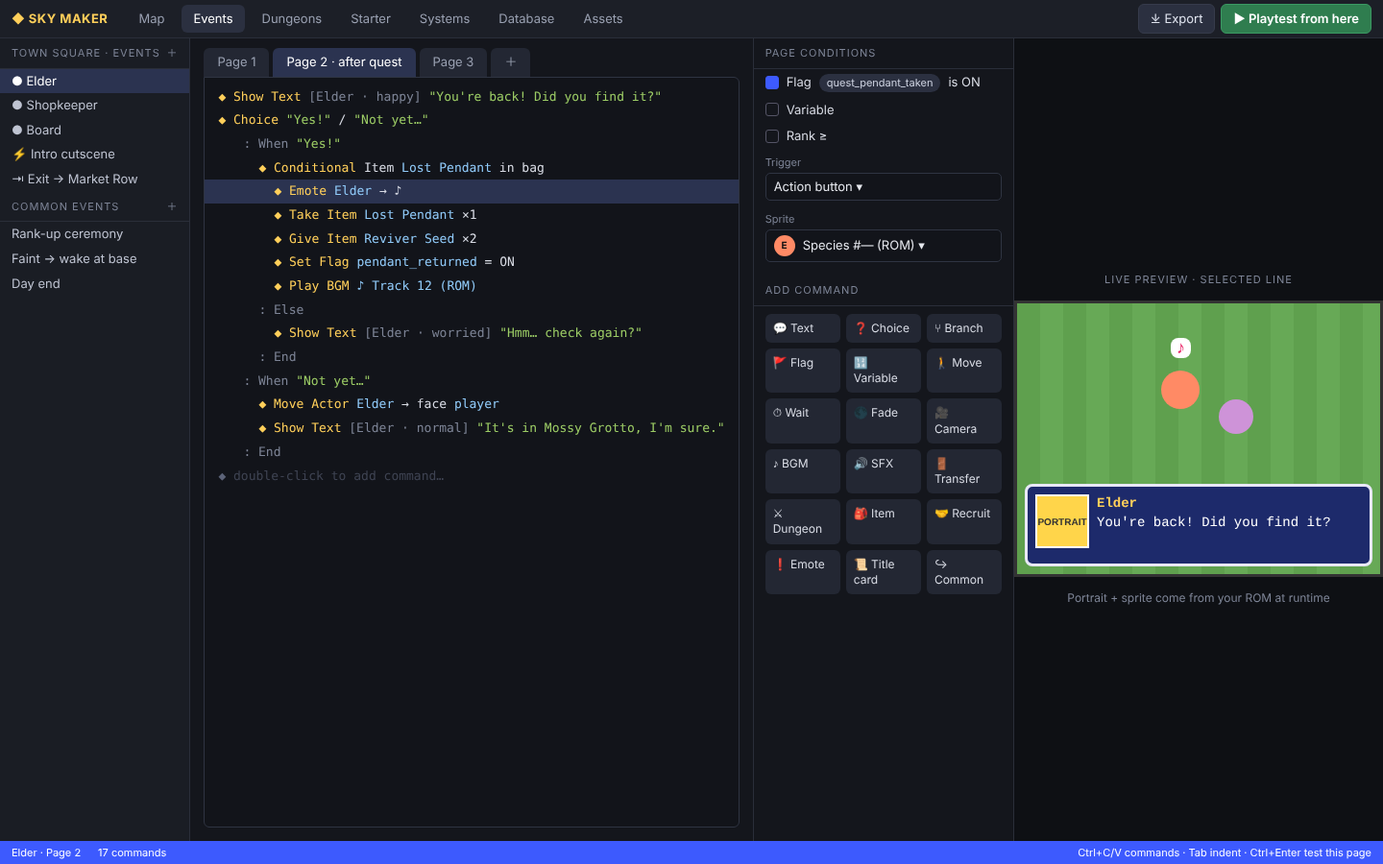
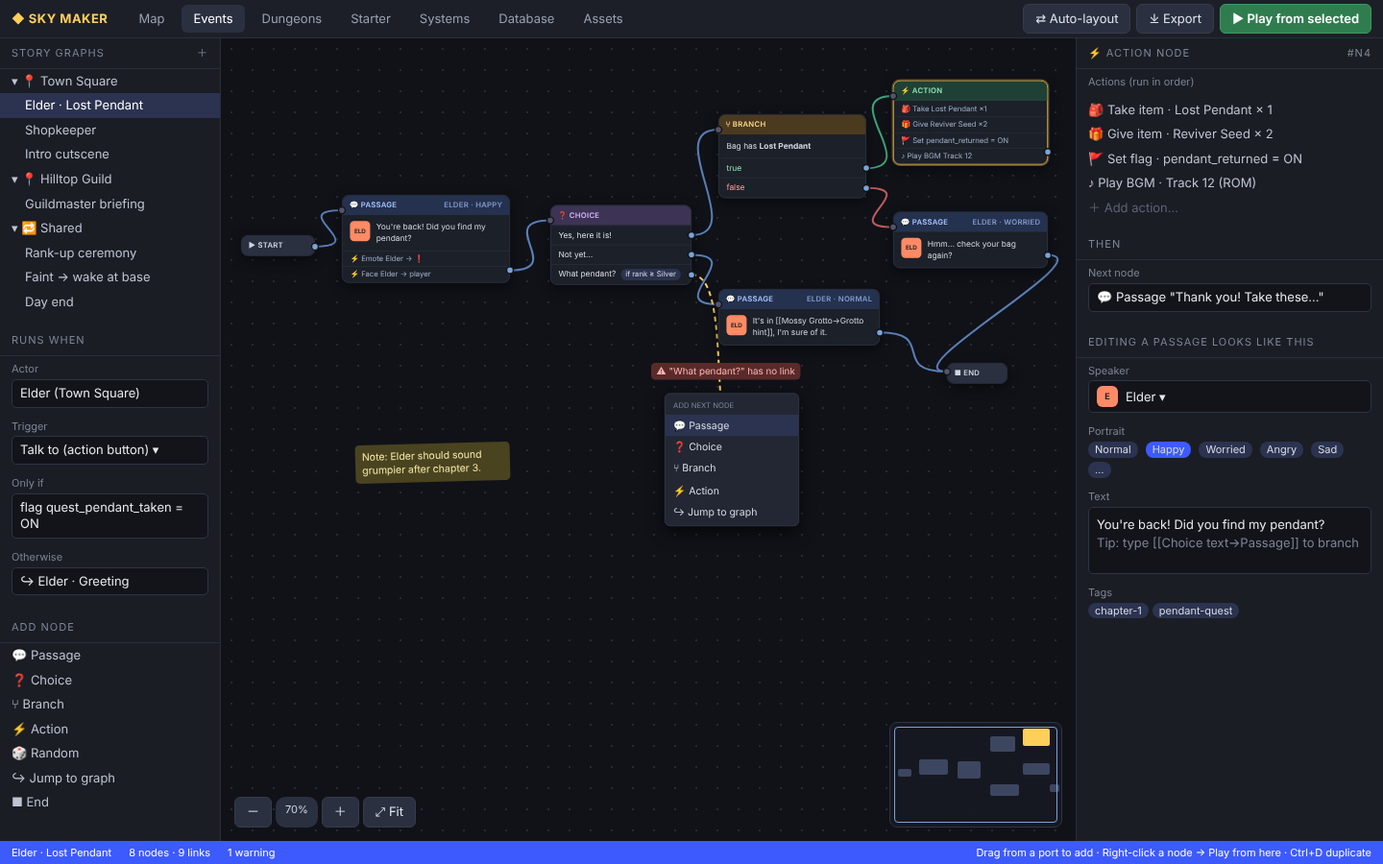
Spec + mockup: Twine-style node graphs for dialogue and events
Claude-Session: https://claude.ai/code/session_01SJfvhBuF88Dvv6NENy6wQk

diff --git a/docs/mockups/2-events.html b/docs/mockups/2-events.html
@@ -1,74 +1,131 @@
 <html><head><link rel="stylesheet" href="base.css"><style>
-.wrap{flex:1;display:flex;gap:0;min-height:0}
-.pages{display:flex;gap:4px;padding:10px 14px 0}
-.pg{padding:6px 14px;border-radius:6px 6px 0 0;background:#232733;color:#9aa1b2}
-.pg.on{background:#2b3350;color:#fff}
-.ed{flex:1;display:flex;flex-direction:column;border-right:1px solid #2a2e39}
-.cmds{flex:1;background:#12141a;margin:0 14px 14px;border:1px solid #2f3442;border-radius:0 6px 6px 6px;padding:8px 0;font:13px/1.9 "JetBrains Mono",Consolas,monospace}
-.cmd{padding:0 14px;white-space:nowrap}
-.cmd.sel{background:#2b3350}
-.k{color:#ffcf5a}.s{color:#9ccc65}.v{color:#90caf9}.m{color:#7d8496}
-.add{color:#5c6378}
-.side{width:300px;display:flex;flex-direction:column}
-.cond{display:flex;align-items:center;gap:8px;padding:5px 12px}
-.box{width:14px;height:14px;border:1px solid #556;border-radius:3px}.box.on{background:#3d5afe;border-color:#3d5afe}
-.pal2{display:grid;grid-template-columns:repeat(3,1fr);gap:6px;padding:8px 12px}
-.pal2 div{background:#232733;border-radius:6px;padding:7px 8px;font-size:12px}
-.preview{width:420px;background:#0e1014;display:flex;flex-direction:column;align-items:center;justify-content:center;gap:14px;border-left:1px solid #2a2e39}
-.ds{width:384px;height:288px;background:#5fa04e;border:3px solid #333;position:relative;image-rendering:pixelated}
-.dbox{position:absolute;left:8px;right:8px;bottom:8px;height:86px;background:#1d2a6b;border:3px solid #e8e8f8;border-radius:8px;color:#fff;font:14px/1.4 "Courier New",monospace;padding:8px 10px 8px 72px}
-.port{position:absolute;left:8px;top:8px;width:56px;height:56px;background:#ffd54a;border:2px solid #fff;display:flex;align-items:center;justify-content:center;color:#333;font:700 10px sans-serif}
+.canvas{flex:1;position:relative;overflow:hidden;background:#101218;background-image:radial-gradient(#252a36 1px,transparent 1px);background-size:22px 22px}
+svg.wires{position:absolute;inset:0;width:100%;height:100%;pointer-events:none;z-index:0}.world .node,.world .warn,.world .menu,.world .note2{z-index:1}
+.node{position:absolute;width:250px;background:#1c2029;border:1px solid #333a4a;border-radius:10px;box-shadow:0 6px 18px #0007;font-size:12px}
+.node.sel{border-color:#ffcf5a;box-shadow:0 0 0 2px #ffcf5a55,0 6px 18px #0007}
+.nh{display:flex;align-items:center;gap:7px;padding:7px 10px;border-radius:10px 10px 0 0;font-weight:600;font-size:11px;letter-spacing:.4px;text-transform:uppercase}
+.nb{padding:9px 11px;color:#d0d4df;line-height:1.45}
+.pp{width:30px;height:30px;border-radius:6px;flex:none;display:flex;align-items:center;justify-content:center;font-size:9px;color:#222;font-weight:700}
+.sp2{display:flex;gap:9px;align-items:flex-start}
+.act{display:flex;gap:6px;align-items:center;padding:4px 11px;color:#9fb0c8;font-size:11px;border-top:1px solid #2a2f3c}
+.opt{position:relative;padding:6px 11px;border-top:1px solid #2a2f3c;display:flex;justify-content:space-between}
+.port{position:absolute;right:-7px;top:50%;margin-top:-6px;width:12px;height:12px;border-radius:50%;background:#7aa3d6;border:2px solid #101218}
+.portl{position:absolute;left:-7px;top:16px;width:12px;height:12px;border-radius:50%;background:#556;border:2px solid #101218}
+.out{position:absolute;right:-7px;bottom:12px;width:12px;height:12px;border-radius:50%;background:#7aa3d6;border:2px solid #101218}
+.passage .nh{background:#24324f;color:#a9c3ff}
+.choice .nh{background:#3d3354;color:#d5b8ff}
+.branch .nh{background:#4a3a1f;color:#ffd58a}
+.action .nh{background:#1f4135;color:#8fe0b8}
+.start .nh,.end .nh{background:#2b3040;color:#cfd4e2;border-radius:10px}
+.warn{position:absolute;background:#5a2a2a;color:#ffb4b4;font-size:11px;padding:3px 8px;border-radius:6px}
+.menu{position:absolute;z-index:3!important;background:#232733;border:1px solid #3a4054;border-radius:8px;box-shadow:0 8px 24px #000a;width:170px;font-size:12px;padding:4px 0}
+.menu div{padding:6px 12px}.menu div:hover,.menu .h{background:#2b3350}
+.mini{position:absolute;right:14px;bottom:14px;width:180px;height:110px;background:#161922ee;border:1px solid #2f3442;border-radius:8px}
+.mini i{position:absolute;background:#3d4660;border-radius:2px}
+.insp{width:320px}
+.zoom{position:absolute;left:14px;bottom:14px;display:flex;gap:4px}
+.note2{position:absolute;width:170px;background:#4a4320;color:#f3e7a6;font-size:11px;padding:8px 10px;border-radius:6px;transform:rotate(-1.5deg)}
+.ta{background:#12141a;border:1px solid #2f3442;border-radius:5px;padding:8px;color:#e6e8ee;min-height:70px;line-height:1.45}
+.tag{display:inline-block;padding:1px 7px;border-radius:8px;background:#2b3350;font-size:11px;margin-right:4px}
 </style></head><body>
 <div class="top"><span class="logo">◆ SKY MAKER</span>
 <span class="tab">Map</span><span class="tab on">Events</span><span class="tab">Dungeons</span><span class="tab">Starter</span><span class="tab">Systems</span><span class="tab">Database</span><span class="tab">Assets</span>
-<span class="sp"></span><span class="btn">⤓ Export</span><span class="btn go">▶ Playtest from here</span></div>
-<div class="wrap">
-<div class="panel" style="width:220px">
-<div class="ph"><span>Town Square · Events</span><span>＋</span></div>
-<div class="tree"><div class="sel">● Elder</div><div>● Shopkeeper</div><div>● Board</div><div>⚡ Intro cutscene</div><div>⇥ Exit → Market Row</div></div>
-<div class="ph"><span>Common events</span><span>＋</span></div>
-<div class="tree"><div>Rank-up ceremony</div><div>Faint → wake at base</div><div>Day end</div></div>
+<span class="sp"></span><span class="btn">⇄ Auto-layout</span><span class="btn">⤓ Export</span><span class="btn go">▶ Play from selected</span></div>
+<div class="main">
+<div class="panel" style="width:230px">
+<div class="ph"><span>Story graphs</span><span>＋</span></div>
+<div class="tree">
+<div>▾ 📍 Town Square</div>
+<div class="i1 sel">Elder · Lost Pendant</div>
+<div class="i1">Shopkeeper</div>
+<div class="i1">Intro cutscene</div>
+<div>▾ 📍 Hilltop Guild</div>
+<div class="i1">Guildmaster briefing</div>
+<div>▾ 🔁 Shared</div>
+<div class="i1">Rank-up ceremony</div>
+<div class="i1">Faint → wake at base</div>
+<div class="i1">Day end</div>
 </div>
-<div class="ed">
-<div class="pages"><span class="pg">Page 1</span><span class="pg on">Page 2 · after quest</span><span class="pg">Page 3</span><span class="pg">＋</span></div>
-<div class="cmds">
-<div class="cmd"><span class="k">◆ Show Text</span> <span class="m">[Elder · happy]</span> <span class="s">"You're back! Did you find it?"</span></div>
-<div class="cmd"><span class="k">◆ Choice</span> <span class="s">"Yes!"</span> / <span class="s">"Not yet…"</span></div>
-<div class="cmd" style="padding-left:40px"><span class="m">: When</span> <span class="s">"Yes!"</span></div>
-<div class="cmd" style="padding-left:56px"><span class="k">◆ Conditional</span> Item <span class="v">Lost Pendant</span> in bag</div>
-<div class="cmd sel" style="padding-left:72px"><span class="k">◆ Emote</span> <span class="v">Elder</span> → ♪</div>
-<div class="cmd" style="padding-left:72px"><span class="k">◆ Take Item</span> <span class="v">Lost Pendant</span> ×1</div>
-<div class="cmd" style="padding-left:72px"><span class="k">◆ Give Item</span> <span class="v">Reviver Seed</span> ×2</div>
-<div class="cmd" style="padding-left:72px"><span class="k">◆ Set Flag</span> <span class="v">pendant_returned</span> = ON</div>
-<div class="cmd" style="padding-left:72px"><span class="k">◆ Play BGM</span> <span class="v">♪ Track 12 (ROM)</span></div>
-<div class="cmd" style="padding-left:56px"><span class="m">: Else</span></div>
-<div class="cmd" style="padding-left:72px"><span class="k">◆ Show Text</span> <span class="m">[Elder · worried]</span> <span class="s">"Hmm… check again?"</span></div>
-<div class="cmd" style="padding-left:56px"><span class="m">: End</span></div>
-<div class="cmd" style="padding-left:40px"><span class="m">: When</span> <span class="s">"Not yet…"</span></div>
-<div class="cmd" style="padding-left:56px"><span class="k">◆ Move Actor</span> <span class="v">Elder</span> → face <span class="v">player</span></div>
-<div class="cmd" style="padding-left:56px"><span class="k">◆ Show Text</span> <span class="m">[Elder · normal]</span> <span class="s">"It's in Mossy Grotto, I'm sure."</span></div>
-<div class="cmd" style="padding-left:40px"><span class="m">: End</span></div>
-<div class="cmd add">◆ <span style="opacity:.6">double-click to add command…</span></div>
+<div class="ph" style="margin-top:12px"><span>Runs when</span></div>
+<div class="field"><label>Actor</label><div class="inp">Elder (Town Square)</div></div>
+<div class="field"><label>Trigger</label><div class="inp">Talk to (action button) ▾</div></div>
+<div class="field"><label>Only if</label><div class="inp">flag quest_pendant_taken = ON</div></div>
+<div class="field"><label>Otherwise</label><div class="inp">↪ Elder · Greeting</div></div>
+<div class="ph" style="margin-top:12px"><span>Add node</span></div>
+<div class="tree"><div>💬 Passage</div><div>❓ Choice</div><div>⑂ Branch</div><div>⚡ Action</div><div>🎲 Random</div><div>↪ Jump to graph</div><div>■ End</div></div>
+</div>
+<div class="canvas" id="cv">
+<svg class="wires" id="wires"></svg>
+<div class="world" style="position:absolute;z-index:1;left:0;top:30px;transform:scale(.7);transform-origin:0 0;width:1500px;height:1000px">
+
+<div class="node start" style="left:30px;top:250px;width:110px"><div class="nh">▶ Start<span class="out" style="bottom:7px"></span></div></div>
+
+<div class="node passage" id="n1" style="left:180px;top:190px"><div class="nh">💬 Passage <span style="margin-left:auto;opacity:.7">Elder · happy</span></div>
+<div class="nb sp2"><span class="pp" style="background:#ff8a65">ELD</span><span>You're back! Did you find my pendant?</span></div>
+<div class="act">⚡ Emote Elder → ❗</div><div class="act">⚡ Face Elder → player</div><span class="portl"></span><span class="out"></span></div>
+
+<div class="node choice" id="n2" style="left:490px;top:205px;width:210px"><div class="nh">❓ Choice</div>
+<div class="opt">Yes, here it is!<span class="port"></span></div>
+<div class="opt">Not yet…<span class="port"></span></div>
+<div class="opt">What pendant? <span class="tag">if rank ≥ Silver</span><span class="port"></span></div><span class="portl"></span></div>
+
+<div class="node branch" id="n3" style="left:740px;top:70px;width:220px"><div class="nh">⑂ Branch</div>
+<div class="nb">Bag has <b>Lost Pendant</b></div>
+<div class="opt" style="color:#8fe0b8">true<span class="port"></span></div><div class="opt" style="color:#ff9a9a">false<span class="port"></span></div><span class="portl"></span></div>
+
+<div class="node action sel" id="n4" style="left:1000px;top:20px;width:230px"><div class="nh">⚡ Action</div>
+<div class="act" style="border:0">🎒 Take Lost Pendant ×1</div><div class="act">🎁 Give Reviver Seed ×2</div><div class="act">🚩 Set pendant_returned = ON</div><div class="act">♪ Play BGM Track 12</div><span class="portl"></span><span class="out"></span></div>
+
+<div class="node passage" id="n5" style="left:1000px;top:215px;width:230px"><div class="nh">💬 Passage <span style="margin-left:auto;opacity:.7">Elder · worried</span></div>
+<div class="nb sp2"><span class="pp" style="background:#ff8a65">ELD</span><span>Hmm… check your bag again?</span></div><span class="portl"></span><span class="out"></span></div>
+
+<div class="node passage" id="n6" style="left:740px;top:330px;width:240px"><div class="nh">💬 Passage <span style="margin-left:auto;opacity:.7">Elder · normal</span></div>
+<div class="nb sp2"><span class="pp" style="background:#ff8a65">ELD</span><span>It's in [[Mossy Grotto->Grotto hint]], I'm sure of it.</span></div><span class="portl"></span><span class="out"></span></div>
+
+<div class="node end" id="n7" style="left:1080px;top:440px;width:90px"><div class="nh">■ End<span class="portl" style="top:6px"></span></div></div>
+
+<div class="warn" style="left:640px;top:440px;font-size:14px">⚠ "What pendant?" has no link</div>
+<div class="menu" style="left:660px;top:485px;font-size:15px;width:200px"><div style="color:#7d8496;font-size:11px">ADD NEXT NODE</div><div class="h">💬 Passage</div><div>❓ Choice</div><div>⑂ Branch</div><div>⚡ Action</div><div>↪ Jump to graph</div></div>
+<div class="note2" style="left:200px;top:560px;font-size:15px;width:230px">Note: Elder should sound grumpier after chapter 3.</div>
+
+</div>
+<div class="zoom"><span class="btn">－</span><span class="chip" style="padding:6px 10px">70%</span><span class="btn">＋</span><span class="btn">⤢ Fit</span></div>
+<div class="mini"><i style="left:8px;top:48px;width:14px;height:8px"></i><i style="left:30px;top:38px;width:30px;height:16px"></i><i style="left:70px;top:40px;width:24px;height:18px"></i><i style="left:104px;top:14px;width:26px;height:16px"></i><i style="left:138px;top:6px;width:28px;height:18px;background:#ffcf5a"></i><i style="left:138px;top:42px;width:28px;height:12px"></i><i style="left:104px;top:64px;width:30px;height:12px"></i><i style="left:166px;top:64px;width:10px;height:8px"></i><span style="position:absolute;inset:4px;border:1px solid #7aa3d6;border-radius:4px"></span></div>
+</div>
+<div class="panel r insp">
+<div class="ph"><span>⚡ Action node</span><span>#n4</span></div>
+<div class="field"><label>Actions (run in order)</label></div>
+<div class="tree">
+<div>🎒 Take item · Lost Pendant × 1</div>
+<div>🎁 Give item · Reviver Seed × 2</div>
+<div>🚩 Set flag · pendant_returned = ON</div>
+<div>♪ Play BGM · Track 12 (ROM)</div>
+<div style="color:#5c6378">＋ Add action…</div>
+</div>
+<div class="ph" style="margin-top:10px"><span>Then</span></div>
+<div class="field"><label>Next node</label><div class="inp">💬 Passage "Thank you! Take these…"</div></div>
+<div class="ph" style="margin-top:10px"><span>Editing a passage looks like this</span></div>
+<div class="field"><label>Speaker</label><div class="inp" style="display:flex;gap:8px;align-items:center"><span class="pp" style="background:#ff8a65;width:22px;height:22px">E</span>Elder ▾</div></div>
+<div class="field"><label>Portrait</label><div style="display:flex;gap:4px;flex-wrap:wrap"><span class="tag">Normal</span><span class="tag" style="background:#3d5afe">Happy</span><span class="tag">Worried</span><span class="tag">Angry</span><span class="tag">Sad</span><span class="tag">…</span></div></div>
+<div class="field"><label>Text</label><div class="ta">You're back! Did you find my pendant?<br><span style="color:#7d8496">Tip: type [[Choice text->Passage]] to branch</span></div></div>
+<div class="field"><label>Tags</label><div><span class="tag">chapter-1</span><span class="tag">pendant-quest</span></div></div>
 </div>
 </div>
-<div class="side">
-<div class="ph"><span>Page conditions</span></div>
-<div class="cond"><span class="box on"></span>Flag <span class="chip">quest_pendant_taken</span> is ON</div>
-<div class="cond"><span class="box"></span>Variable</div>
-<div class="cond"><span class="box"></span>Rank ≥</div>
-<div class="field"><label>Trigger</label><div class="inp">Action button ▾</div></div>
-<div class="field"><label>Sprite</label><div class="inp" style="display:flex;gap:8px;align-items:center"><span class="sprite" style="width:22px;height:22px;background:#ff8a65">E</span>Species #— (ROM) ▾</div></div>
-<div class="ph" style="margin-top:8px"><span>Add command</span></div>
-<div class="pal2"><div>💬 Text</div><div>❓ Choice</div><div>⑂ Branch</div><div>🚩 Flag</div><div>🔢 Variable</div><div>🚶 Move</div><div>⏱ Wait</div><div>🌑 Fade</div><div>🎥 Camera</div><div>♪ BGM</div><div>🔊 SFX</div><div>🚪 Transfer</div><div>⚔ Dungeon</div><div>🎒 Item</div><div>🤝 Recruit</div><div>❗ Emote</div><div>📜 Title card</div><div>↪ Common</div></div>
-</div>
-<div class="preview"><span style="color:#7d8496;font-size:11px;letter-spacing:1px">LIVE PREVIEW · SELECTED LINE</span>
-<div class="ds"><div style="position:absolute;inset:0;background:repeating-linear-gradient(90deg,#5fa04e 0 24px,#67a956 24px 48px)"></div>
-<div style="position:absolute;left:150px;top:70px;width:40px;height:40px;border-radius:50%;background:#ff8a65"></div>
-<div style="position:absolute;left:160px;top:36px;background:#fff;color:#e91e63;font:700 18px sans-serif;padding:0 6px;border-radius:8px">♪</div>
-<div style="position:absolute;left:210px;top:100px;width:36px;height:36px;border-radius:50%;background:#ce93d8"></div>
-<div class="dbox"><div class="port">PORTRAIT</div><b style="color:#ffcf5a">Elder</b><br>You're back! Did you find it?</div></div>
-<span style="color:#7d8496;font-size:12px">Portrait + sprite come from your ROM at runtime</span>
-</div>
-</div>
-<div class="status"><span>Elder · Page 2</span><span>17 commands</span><span style="margin-left:auto">Ctrl+C/V commands · Tab indent · Ctrl+Enter test this page</span></div>
-</body></html>
+<div class="status"><span>Elder · Lost Pendant</span><span>8 nodes · 9 links</span><span>1 warning</span><span style="margin-left:auto">Drag from a port to add · Right-click a node → Play from here · Ctrl+D duplicate</span></div>
+<script>
+const cv=document.getElementById('cv'),svg=document.getElementById('wires');
+function pt(el){const r=el.getBoundingClientRect(),c=cv.getBoundingClientRect();return[r.left-c.left+r.width/2,r.top-c.top+r.height/2]}
+function inPort(id){return pt(document.querySelector('#'+id+' .portl'))}
+const outs=[...document.querySelectorAll('.out,.port')];
+function wire(a,b,col){const[x1,y1]=a,[x2,y2]=b,dx=Math.max(60,(x2-x1)/2);const p=document.createElementNS('http://www.w3.org/2000/svg','path');p.setAttribute('d',`M${x1} ${y1} C${x1+dx} ${y1} ${x2-dx} ${y2} ${x2} ${y2}`);p.setAttribute('stroke',col||'#5b7fb8');p.setAttribute('stroke-width','2');p.setAttribute('fill','none');svg.appendChild(p)}
+const startOut=pt(document.querySelector('.start .out'));
+wire(startOut,inPort('n1'));
+wire(pt(document.querySelector('#n1 .out')),inPort('n2'));
+const cp=document.querySelectorAll('#n2 .port');
+wire(pt(cp[0]),inPort('n3'));wire(pt(cp[1]),inPort('n6'));
+const bp=document.querySelectorAll('#n3 .port');
+wire(pt(bp[0]),inPort('n4'),'#3fa57a');wire(pt(bp[1]),inPort('n5'),'#c25b5b');
+wire(pt(document.querySelector('#n6 .out')),inPort('n7'));
+wire(pt(document.querySelector('#n5 .out')),inPort('n7'));
+const p3=pt(cp[2]);const d=document.createElementNS('http://www.w3.org/2000/svg','path');d.setAttribute('d',`M${p3[0]} ${p3[1]} C${p3[0]+40} ${p3[1]} ${p3[0]+20} ${p3[1]+150} ${p3[0]+40} ${p3[1]+170}`);d.setAttribute('stroke','#ffcf5a');d.setAttribute('stroke-dasharray','5 4');d.setAttribute('stroke-width','2');d.setAttribute('fill','none');svg.appendChild(d);
+</script></body></html>

diff --git a/docs/SPEC.md b/docs/SPEC.md
@@ -172,12 +172,37 @@ GroundMap {
 }
 
 Actor { id, characterId | species, x, y, facing, animation,
-        pages: EventPage[] }   // RPG Maker-style pages w/ conditions
+        entries: EventEntry[] }   // which story graph runs, and when
 
-EventPage { conditions: { flag?, variable?, … },
-            trigger: 'action' | 'touch' | 'auto' | 'parallel',
-            commands: Command[] }
+EventEntry { graphId, startNodeId,
+             trigger: 'action' | 'touch' | 'auto' | 'parallel',
+             conditions: { flag?, variable?, minRank?, … } }
+             // first entry whose conditions pass wins (replaces RPG Maker "pages")
 
+StoryGraph {               // Twine-style: one canvas of connected nodes
+  id, name, folder?,
+  nodes: Node[], edges: Edge[],
+  notes?: StickyNote[]     // free-floating comments on the canvas
+}
+
+Node { id, x, y, color?, tags?, ...one of:
+  | { kind: 'passage', speaker: CharacterRef | null, emotion, text,  // Twine passage
+      actions: Action[] }                 // run before the text shows (move, emote, fade…)
+  | { kind: 'choice', prompt?, options: { id, label, showIf? }[] }   // one out-port per option
+  | { kind: 'branch', condition }          // out-ports: true / false
+  | { kind: 'switch', variable, cases }    // out-port per case + default
+  | { kind: 'action', actions: Action[] }  // no text: cutscene beats, give item, set flag…
+  | { kind: 'random', weights }            // out-port per weight
+  | { kind: 'jump', graphId, nodeId }      // go to another graph (reusable scenes)
+  | { kind: 'start' } | { kind: 'end' }
+}
+
+Edge { from: { node, port }, to: node }
+```
+
+`Action` = the same small JSON action set listed below (`{ type: 'moveActor', … }`). Graphs are data. Dungeon hooks (`onClear`, `onFail`, boss encounters) also point at a `graphId + startNodeId`.
+
+```ts
 Dungeon {
   id, name, floors: number, tilesetRef, bgm,
   floorRules: { from, to, layout: 'rooms'|'cave'|'single'|…,
@@ -185,7 +210,7 @@ Dungeon {
                 spawns: { species, level, weight }[],
                 items: { itemId, weight }[] }[],
   bossFloor?: { floor, encounterEventId },
-  onClear: Command[], onFail: Command[]
+  onClear: GraphRef, onFail: GraphRef
 }
 
 Character { id, displayName, species | customSpriteRef, portraitSet, defaultFacing }
@@ -211,23 +236,36 @@ Mission { id, board: 'job' | 'outlaw', title, clientCharacterId,
 // plus MissionGenerator rules for auto-generated daily missions
 ```
 
-### Event commands (v1 set)
-Show Text (speaker, portrait emotion, text) · Choice · Conditional Branch · Set Flag / Variable · Move Actor (path or to tile) · Face · Play Animation · Wait · Fade In/Out · Screen Shake · Camera Pan/Follow · Play/Stop BGM · Play SFX · Transfer Map · Enter Dungeon · Give/Take Item · Recruit Pokémon · Call Common Event · Emote bubble (!, ?, ♪) · Show Title Card.
+### Node types and actions (v1 set)
+**Flow (nodes):** Passage (speaker, portrait emotion, text) · Choice · Branch (if/else) · Switch · Random · Action · Jump to graph · Start · End.
 
-Commands are plain JSON objects (`{ type: 'showText', … }`) run by one interpreter in the engine. Editor renders each type with a form — **no scripting required**. (Optional later: an "Advanced" raw-JSON or tiny script command.)
+**Actions (inside Passage/Action nodes):** Set Flag / Variable · Move Actor (path or to tile) · Face · Play Animation · Wait · Fade In/Out · Screen Shake · Camera Pan/Follow · Play/Stop BGM · Play SFX · Transfer Map · Enter Dungeon · Give/Take Item · Recruit Pokémon · Emote bubble (!, ?, ♪) · Show Title Card.
+
+One interpreter in the engine walks the graph: run the node's actions, show its text, follow the chosen or matching edge. **No scripting required.** (Optional later: an "Advanced" expression field on Branch nodes.)
+
+**Twine-style text shortcuts** (optional, typed inside a passage, turned into real nodes and edges on blur): `[[Option text->Target passage]]` creates a choice and links it; `[[Target passage]]` links straight through. Lets you write fast in prose and tidy the graph later.
 
 ---
 
 ## 7. Editor (`apps/editor`)
 
-RPG Maker XP mental model: **map list on the left, canvas in the middle, palette/inspector on the right, toolbar on top.**
+RPG Maker XP mental model for maps (**list on the left, canvas in the middle, palette/inspector on the right, toolbar on top**); Twine mental model for dialogue and events (node graph).
 
 ### Modes
 1. **Map Mode** offers two ways to build:
    - **From a ROM map:** pick any original ground map (Treasure Town, the guild, beaches, etc.) as the base. Edit collision, place exits, and optionally paint extra tile layers on top.
    - **From scratch:** paint with tiles sliced from ROM map tilesets (BPC chunks) or custom tilesets, using layers (ground, detail, overhead), collision, and exits.
    - Either way, the result is the same `GroundMap` type.
-2. **Event Mode:** click a tile to create or edit an actor or trigger. The event page editor uses an **RPG Maker XP–style command list**: add, reorder, indent for branches, and double-click to edit a command's form. This is the only cutscene authoring tool for v1.
+2. **Event Mode (node graph, Twine-style):** click a tile to create or edit an actor or trigger, then open its **story graph**:
+   - Infinite canvas with pan/zoom and a minimap. Passages are cards showing speaker portrait + text preview; choices show one output port per option.
+   - Drag from a port to empty space → pick the next node type from a menu (fastest way to write branching dialogue).
+   - Inspector on the right edits the selected node (speaker, emotion, text, actions, conditions).
+   - Graph list on the left: per-map graphs plus shared graphs (old "common events": rank-up ceremony, fainting, day end), grouped in folders.
+   - **Play from here:** right-click any node to playtest starting at it, with flags/vars pre-set from a picker.
+   - Highlights: unreachable nodes, dead ends that aren't an End node, and choice options with no link.
+   - Copy/paste nodes across graphs; group selection into a "Jump" subgraph.
+   - Auto-layout button (left-to-right) for tidying.
+   This is the only event/cutscene authoring tool for v1. Canvas library: **React Flow** (`@xyflow/react`).
 3. **Dungeon Designer:** a floor-range table and spawn/item/trap tables, with searchable species and item pickers that show sprite thumbnails. Each system toggle (weather, monster houses, etc.) gets per-floor settings. A **Preview floor** button generates a random floor live.
 4. **Starter Setup:** pick the mode (quiz, free choice, or fixed). The quiz editor holds questions, answers, nature scores, a nature-to-species table, and intro/result text. Includes a "Take the quiz" test button.
 5. **Systems panel:** on/off switches for every built-in system. Each enabled system unlocks its own editor tab:
@@ -253,7 +291,7 @@ RPG Maker XP mental model: **map list on the left, canvas in the middle, palette
 ### Ground mode
 - Tile collision movement, 8-directional, PMD walk speed feel.
 - Interact (A / Enter / Space), dialogue box with portrait + typewriter text + per-character blip.
-- Event interpreter with blocking/non-blocking commands; parallel events.
+- Graph interpreter: walks nodes, runs blocking/non-blocking actions, waits for choices; parallel graphs for ambient NPC behaviour.
 - Map transitions with fade.
 
 ### Dungeon mode: core (always on)
@@ -306,7 +344,7 @@ Two export targets share one project:
 1. **Compatibility checker (in the editor).** A "ROM export" panel lints the project and lists everything that won't translate, with a link to each item. A project-level switch, **"Keep ROM-compatible"**, warns the moment you use a web-only feature.
 2. **Manifest export (in the editor).** The editor writes `export/rom-manifest.json`: maps, actors, event pages, dungeons, text, starter quiz, shop tables, custom images. It holds references and the user's own art only.
 3. **`tools/rom-export` CLI (on the user's machine).** `python -m rom_export --rom clean.nds --manifest rom-manifest.json --out build/`. It uses `skytemple-files` to write the changes into a copy of the ROM:
-   - Event command lists compile to **ExplorerScript**, then to SSB scripts.
+   - Story graphs compile to **ExplorerScript** (each node becomes a label; edges become jumps, choices become menus, branches become `if`), then to SSB scripts.
    - Ground maps either reuse a ROM map (BMA/BPC/BPL) or quantize painted maps into DS tile/palette limits (SkyTemple's `tilequant` approach).
    - Dungeons go into existing dungeon slots and floor tables (`mappa_s.bin`).
    - Text goes into `text_e.str`. Custom sprites and portraits are imported into the WAN/KAO packs.
@@ -316,7 +354,7 @@ Two export targets share one project:
 
 ### Translates to the ROM (target set; verify each during implementation)
 - Ground maps built on ROM backgrounds; painted maps within tile and palette limits.
-- Actors, event pages, and most v1 event commands (text, choices, branches, flags/vars, movement, camera, fades, BGM/SFX from the ROM, transfers, enter dungeon, items, emotes).
+- Actors, story graphs, and most v1 nodes/actions (passages, choices, branches, switches, flags/vars, movement, camera, fades, BGM/SFX from the ROM, transfers, enter dungeon, items, emotes). Random nodes map to the engine's RNG if available; otherwise the checker flags them.
 - Dungeons within the available slots: floor layouts, spawns, items, traps, weather, monster houses.
 - Starter quiz questions, nature-to-species tables, fixed starters.
 - Shop inventories, missions, ranks, and recruitment rates, where the original data tables allow.
@@ -327,7 +365,7 @@ Two export targets share one project:
 - Custom OGG/MP3 music (the ROM only plays SMD/SWD sequences).
 - Single-screen layout (the ROM is always dual-screen).
 - More dungeons, maps, or species than the ROM has slots for.
-- Any future web-only event commands or mechanics.
+- Any future web-only node types, actions, or mechanics.
 
 ### Distribution checklist (README template the export generates)
 - Requires a clean **US** Explorers of Sky ROM (game code `C2SE`).
@@ -349,7 +387,7 @@ Each milestone ends with a demo the user can click through.
 | M3 | Ground maps | Pick any ROM town BG and render it with palette animation |
 | M4 | Map editor | Paint collision, place actors, save/load project |
 | M5 | Ground runtime | Walk around a custom map, talk to an NPC with portrait dialogue |
-| M6 | Event system | Full v1 command set + page conditions; a 2-minute cutscene works end to end |
+| M6 | Story graphs | Node editor (React Flow) with all v1 node types + actions, entry conditions, play-from-node; a branching 2-minute cutscene works end to end |
 | M7 | Dungeon gen | Dungeon Designer previews random floors with ROM tilesets |
 | M8 | Dungeon play | Fight through 3 floors with a partner, items, stairs, boss event |
 | M9 | Music | SMD/SWD playback (or fallback) on maps and dungeons |
@@ -385,7 +423,7 @@ Each milestone ends with a demo the user can click through.
 Decided:
 - [x] No built-in story; the editor is a story-agnostic toolkit.
 - [x] Maps can come from a ROM base or be painted from scratch.
-- [x] Cutscenes are authored as RPG Maker–style command lists.
+- [x] Dialogue and events are authored as **Twine-style node graphs** (changed from RPG Maker command lists).
 - [x] All PMD systems are built in and toggleable per project.
 - [x] Single user (the project owner).
 - [x] Starter mode is chosen per project (quiz, free choice, or fixed).
